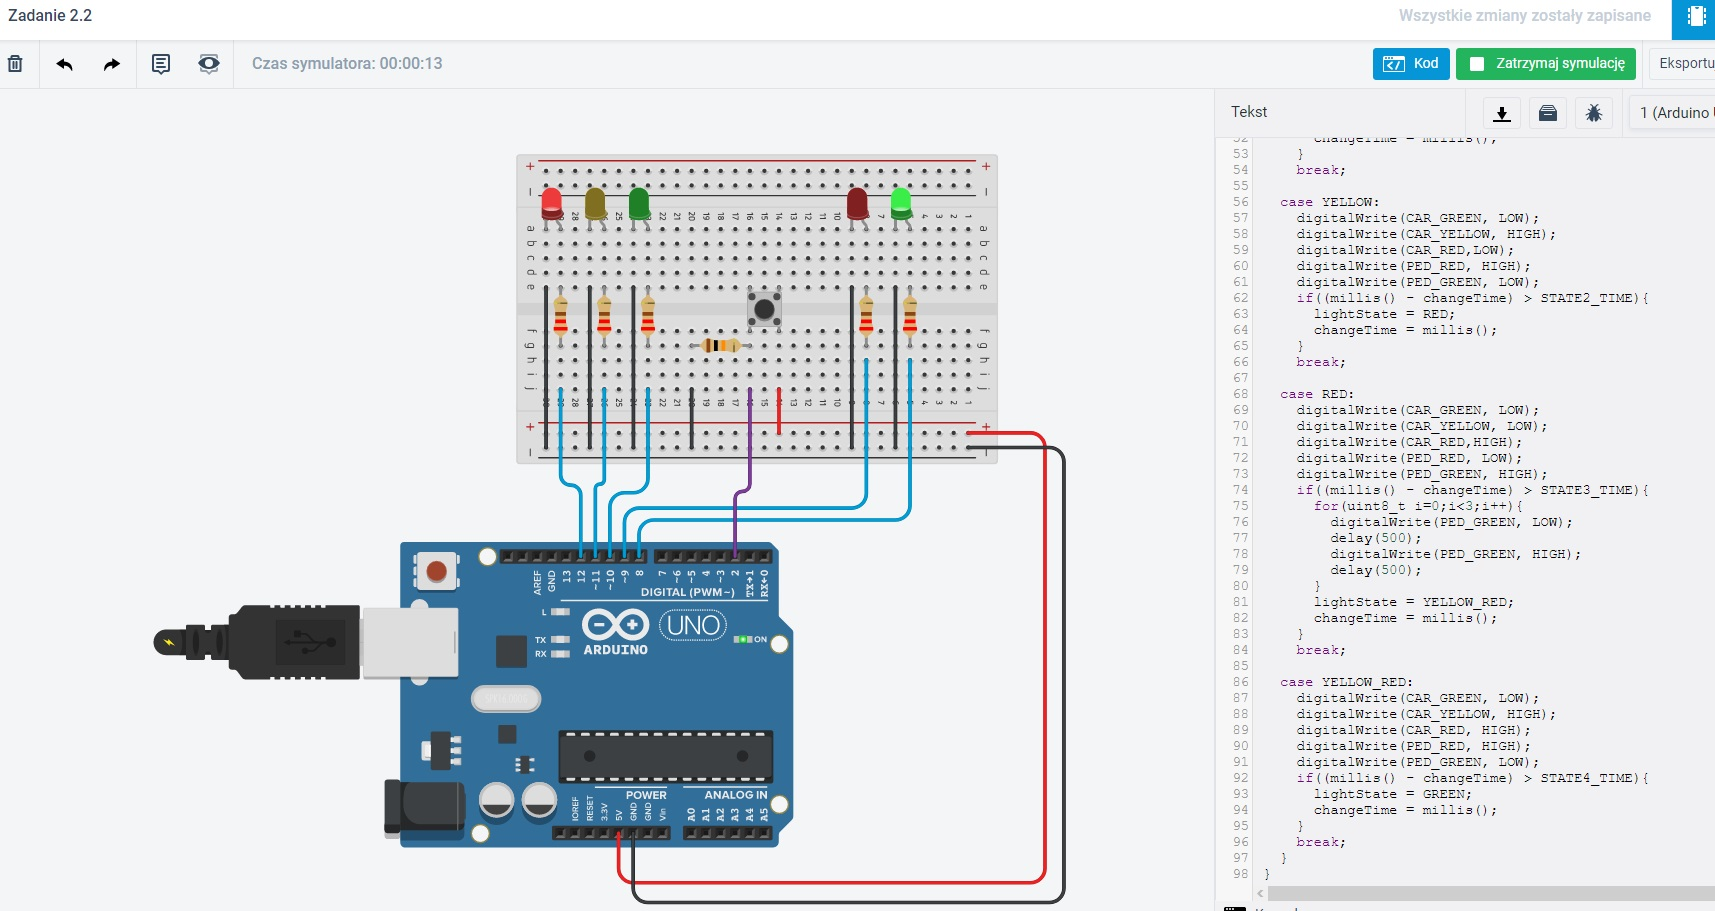
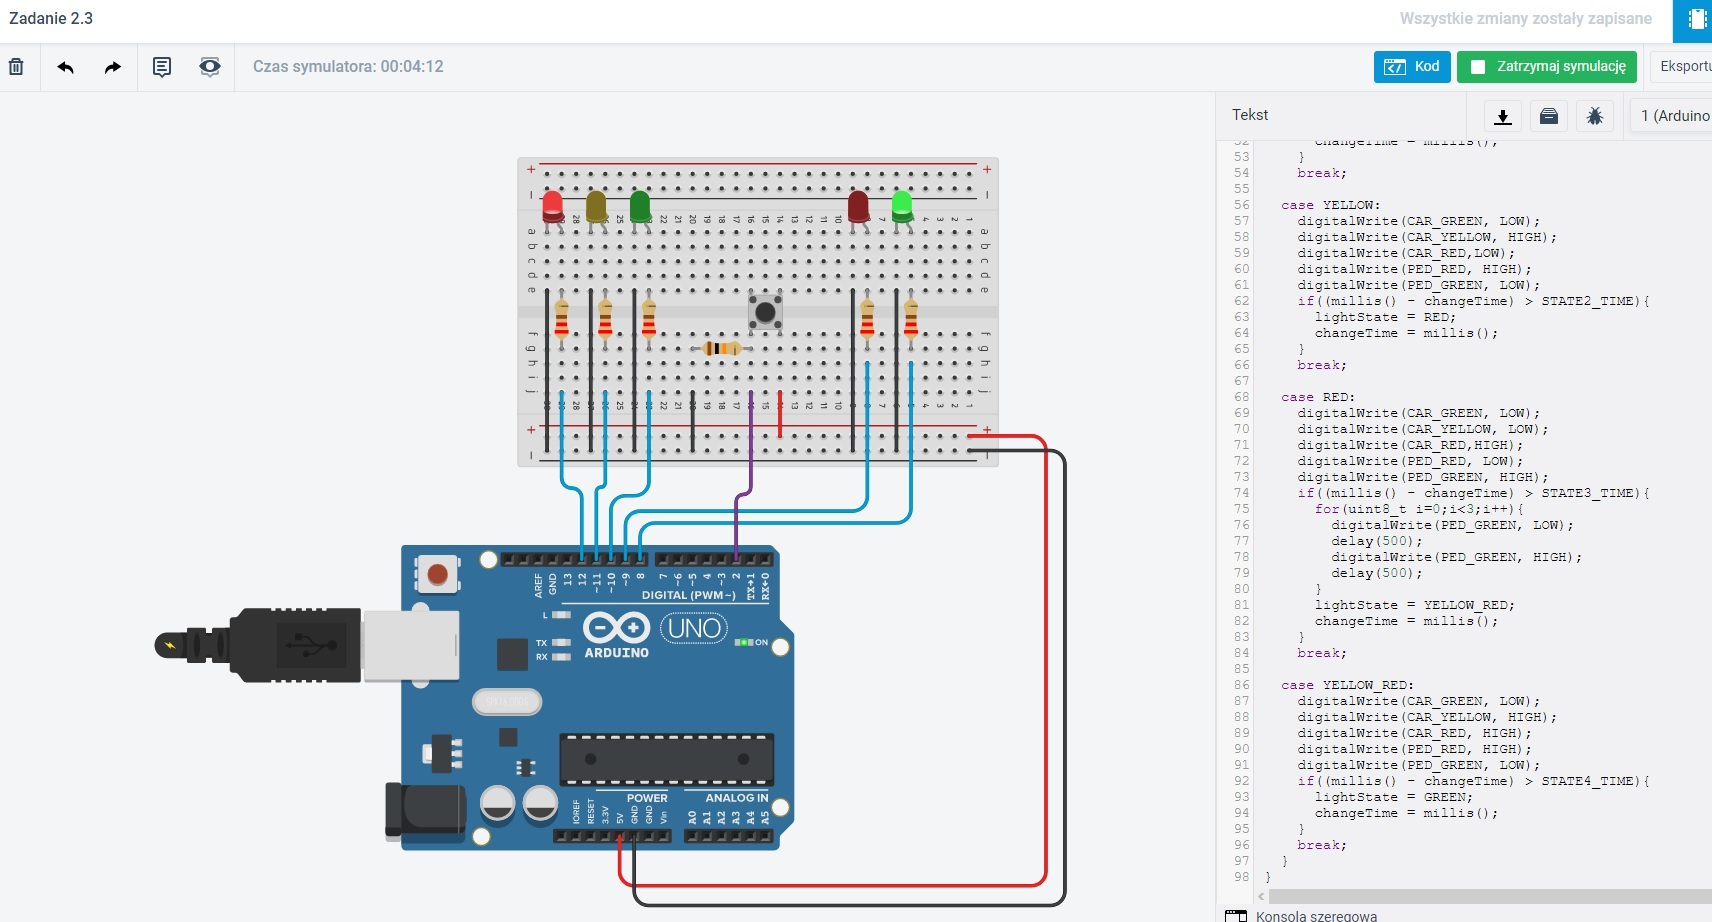
Zakończono zadanie 2.3.2

diff --git a/Zadanie-2-3/src/main.cpp b/Zadanie-2-3/src/main.cpp
@@ -1,98 +1,32 @@
 #include <Arduino.h>
 
-#define CAR_RED 12
-#define CAR_YELLOW 11
-#define CAR_GREEN 10
+uint8_t ledPin[] = {4,5,6,7,8,9,10,11,12,13};
+uint8_t ledDelay = 65;
+uint8_t direction = 1;
+uint8_t currentLED = 0;
+unsigned long changeTime;
 
-#define PED_RED 9
-#define PED_GREEN 8
-
-#define PED_BUTTON 2
-
-#define CHANGE_TIME 10000
-#define STATE1_TIME 10000
-#define STATE2_TIME 1000
-#define STATE3_TIME 7000
-#define STATE4_TIME 1000
-
-enum LightState_t {GREEN, YELLOW, YELLOW_RED, RED};
-LightState_t lightState = GREEN;
-unsigned long changeTime = 0;
+void changeLED();
 
 void setup() {
-  //konfiguracja pinów
-  pinMode(CAR_RED, OUTPUT);
-  pinMode(CAR_YELLOW, OUTPUT);
-  pinMode(CAR_GREEN, OUTPUT);
-  pinMode(PED_RED, OUTPUT);
-  pinMode(PED_GREEN, OUTPUT);
-  pinMode(PED_BUTTON, INPUT);
-  //początkowe wartości pinów
-  digitalWrite(CAR_RED, LOW);
-  digitalWrite(CAR_YELLOW, LOW);
-  digitalWrite(CAR_GREEN, HIGH);
-  digitalWrite(PED_RED, HIGH);
-  digitalWrite(PED_GREEN, LOW);
-
-  changeTime = millis();
+  for(int i=0;1<10;i++){
+    pinMode(ledPin[i],OUTPUT);
+  }
 }
 
 void loop() {
-  uint8_t state = digitalRead(PED_BUTTON);
-  switch (lightState){
-
-  case GREEN:
-    digitalWrite(CAR_GREEN, HIGH);
-    digitalWrite(CAR_YELLOW, LOW);
-    digitalWrite(CAR_RED,LOW);
-    digitalWrite(PED_RED, HIGH);
-    digitalWrite(PED_GREEN, LOW);
-    if(((millis() - changeTime) > STATE1_TIME) || (state == HIGH)){
-      lightState = YELLOW;
-      changeTime = millis();
-    }
-    break;
-
-  case YELLOW:
-    digitalWrite(CAR_GREEN, LOW);
-    digitalWrite(CAR_YELLOW, HIGH);
-    digitalWrite(CAR_RED,LOW);
-    digitalWrite(PED_RED, HIGH);
-    digitalWrite(PED_GREEN, LOW);
-    if((millis() - changeTime) > STATE2_TIME){
-      lightState = RED;
-      changeTime = millis();
-    }
-    break;
-
-  case RED:
-    digitalWrite(CAR_GREEN, LOW);
-    digitalWrite(CAR_YELLOW, LOW);
-    digitalWrite(CAR_RED,HIGH);
-    digitalWrite(PED_RED, LOW);
-    digitalWrite(PED_GREEN, HIGH);
-    if((millis() - changeTime) > STATE3_TIME){
-      for(uint8_t i=0;i<3;i++){
-        digitalWrite(PED_GREEN, LOW);
-        delay(500);
-        digitalWrite(PED_GREEN, HIGH);
-        delay(500);
-      }
-      lightState = YELLOW_RED;
-      changeTime = millis();
-    }
-    break;
-
-  case YELLOW_RED:
-    digitalWrite(CAR_GREEN, LOW);
-    digitalWrite(CAR_YELLOW, HIGH);
-    digitalWrite(CAR_RED, HIGH);
-    digitalWrite(PED_RED, HIGH);
-    digitalWrite(PED_GREEN, LOW);
-    if((millis() - changeTime) > STATE4_TIME){
-      lightState = GREEN;
-      changeTime = millis();
-    }
-    break;
+  if((millis() - changeTime) > ledDelay){
+    changeLED();
+    changeTime = millis();
   }
+}
+
+void changeLED() {
+  for(int x=0;x<10;x++){
+    digitalWrite(ledPin[x],LOW);
+  }
+  digitalWrite(ledPin[currentLED],HIGH);
+  currentLED +=direction;
+  if (currentLED==9) direction = -1;
+  if (currentLED==0) direction = 1;
 }

diff --git a/README.md b/README.md
@@ -33,7 +33,7 @@ Odpowiedź:  Światła dla kierowców robią się żółte a potem czerwone odra
 
 ## Zadanie 2-3-2:
 Pytanie:    *Czy możliwe jest sterowanie stanem niskim (LOW) diod LED?*  
-Odpowiedź:  ...
+Odpowiedź:  Aby sterować stanem niskim diodą, trzeba katodę diody podłaczyć do pinu mikrokontrolera, a andoę przez rezystor do +5V.
 
 # Zadania rozszerzajace
 ## Zadanie 3-1:
